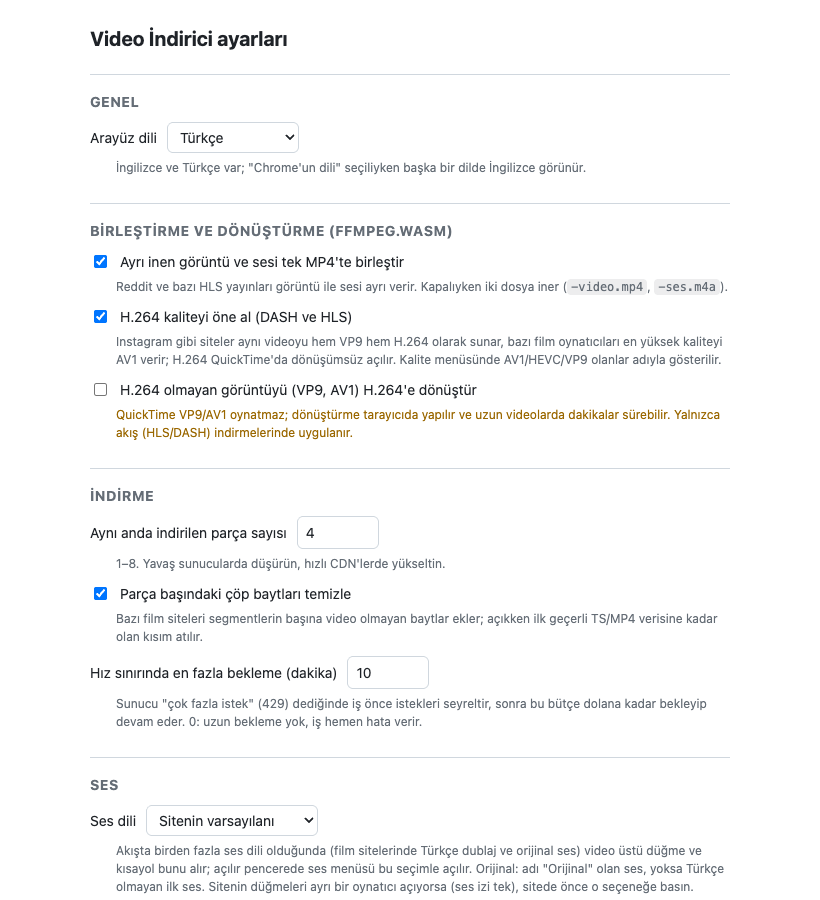
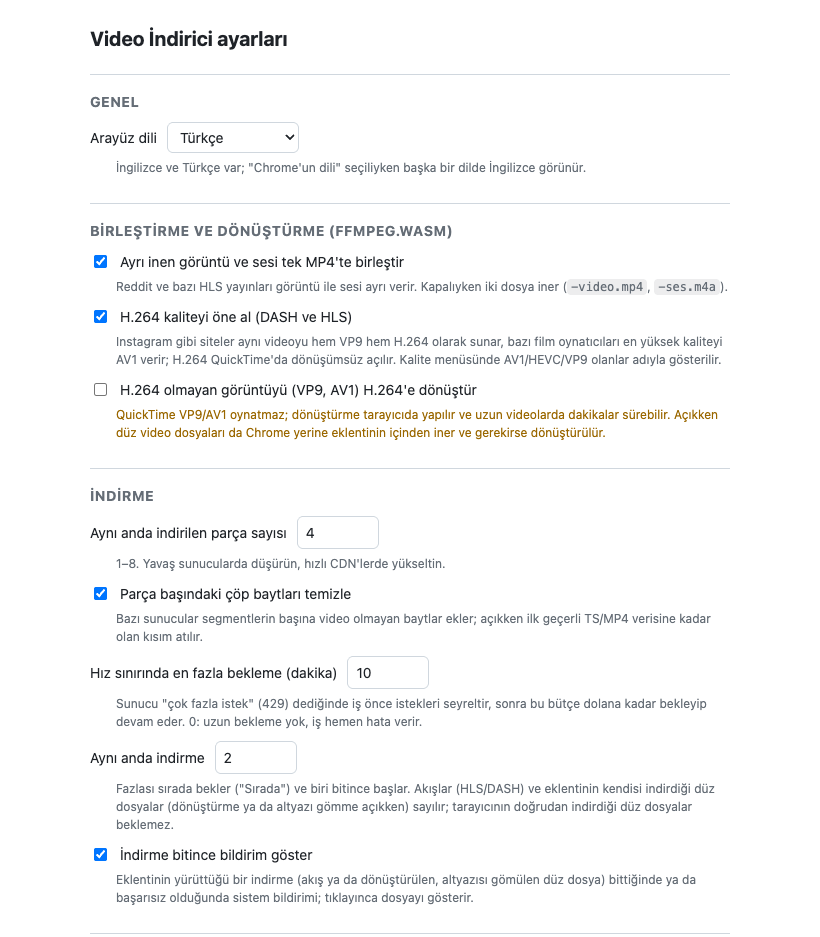
docs: regenerate the README images after 6a-6c and the 0.14.1 texts
The settings image showed none of the 6a settings and the old queue and
notification hints. It is now cut at the end of the "Downloading" section
(queue and notifications) instead of at a fixed height, which cut the
English page mid-sentence. The popup-in-progress images and badge GIFs
are regenerated from the same run.

Changed region(s): [[0.0915, 0.0933, 0.8841, 1.0], [0.122, 0.0311, 0.3354, 0.0622]]

diff --git a/scripts/screenshots.js b/scripts/screenshots.js
@@ -105,6 +105,9 @@ async function shoot(lang, server) {
     await options.goto(`chrome-extension://${ext.extensionId}/src/options/options.html`);
     await options.locator('#uiLanguage').waitFor();
     await sleep(500);
+    // Down to the end of the "Downloading" section (queue and notifications), not mid-sentence.
+    const section = await options.locator('section', { has: options.locator('#notify') }).boundingBox();
+    await options.setViewportSize({ width: 820, height: Math.ceil(section.y + section.height + 4) });
     await options.screenshot({ path: path.join(OUT, `options-${lang}.png`) });
   } finally {
     await ext.close();
